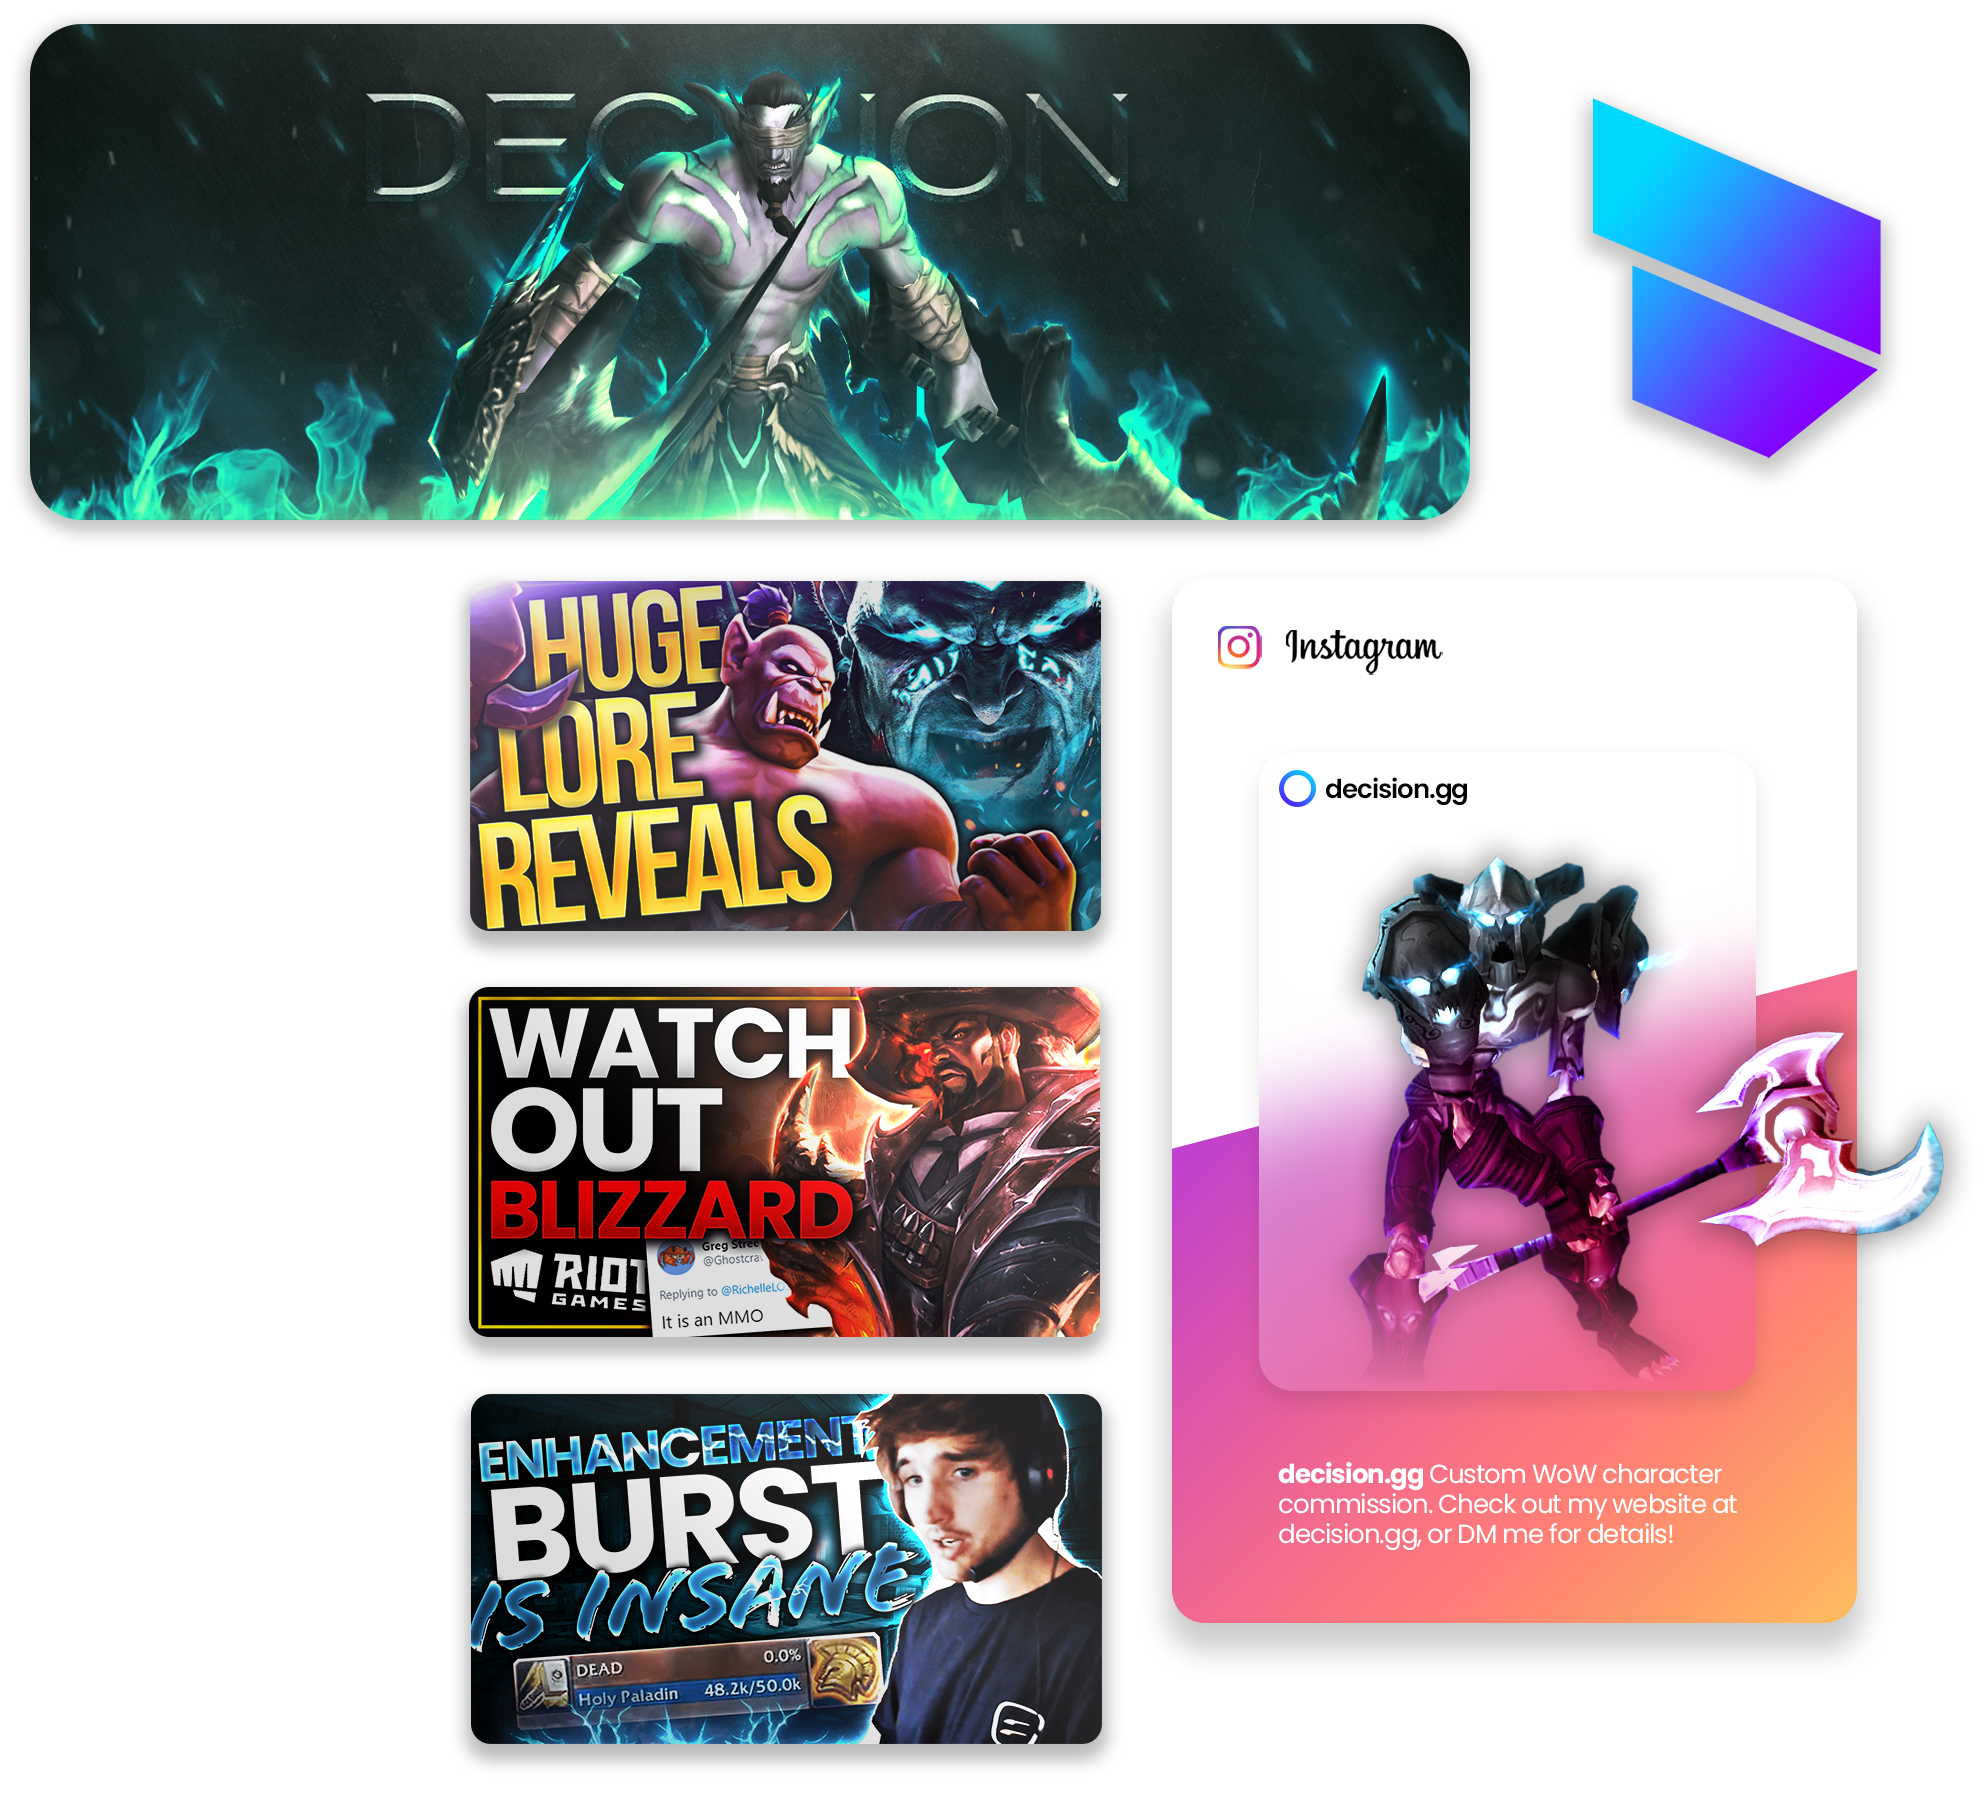
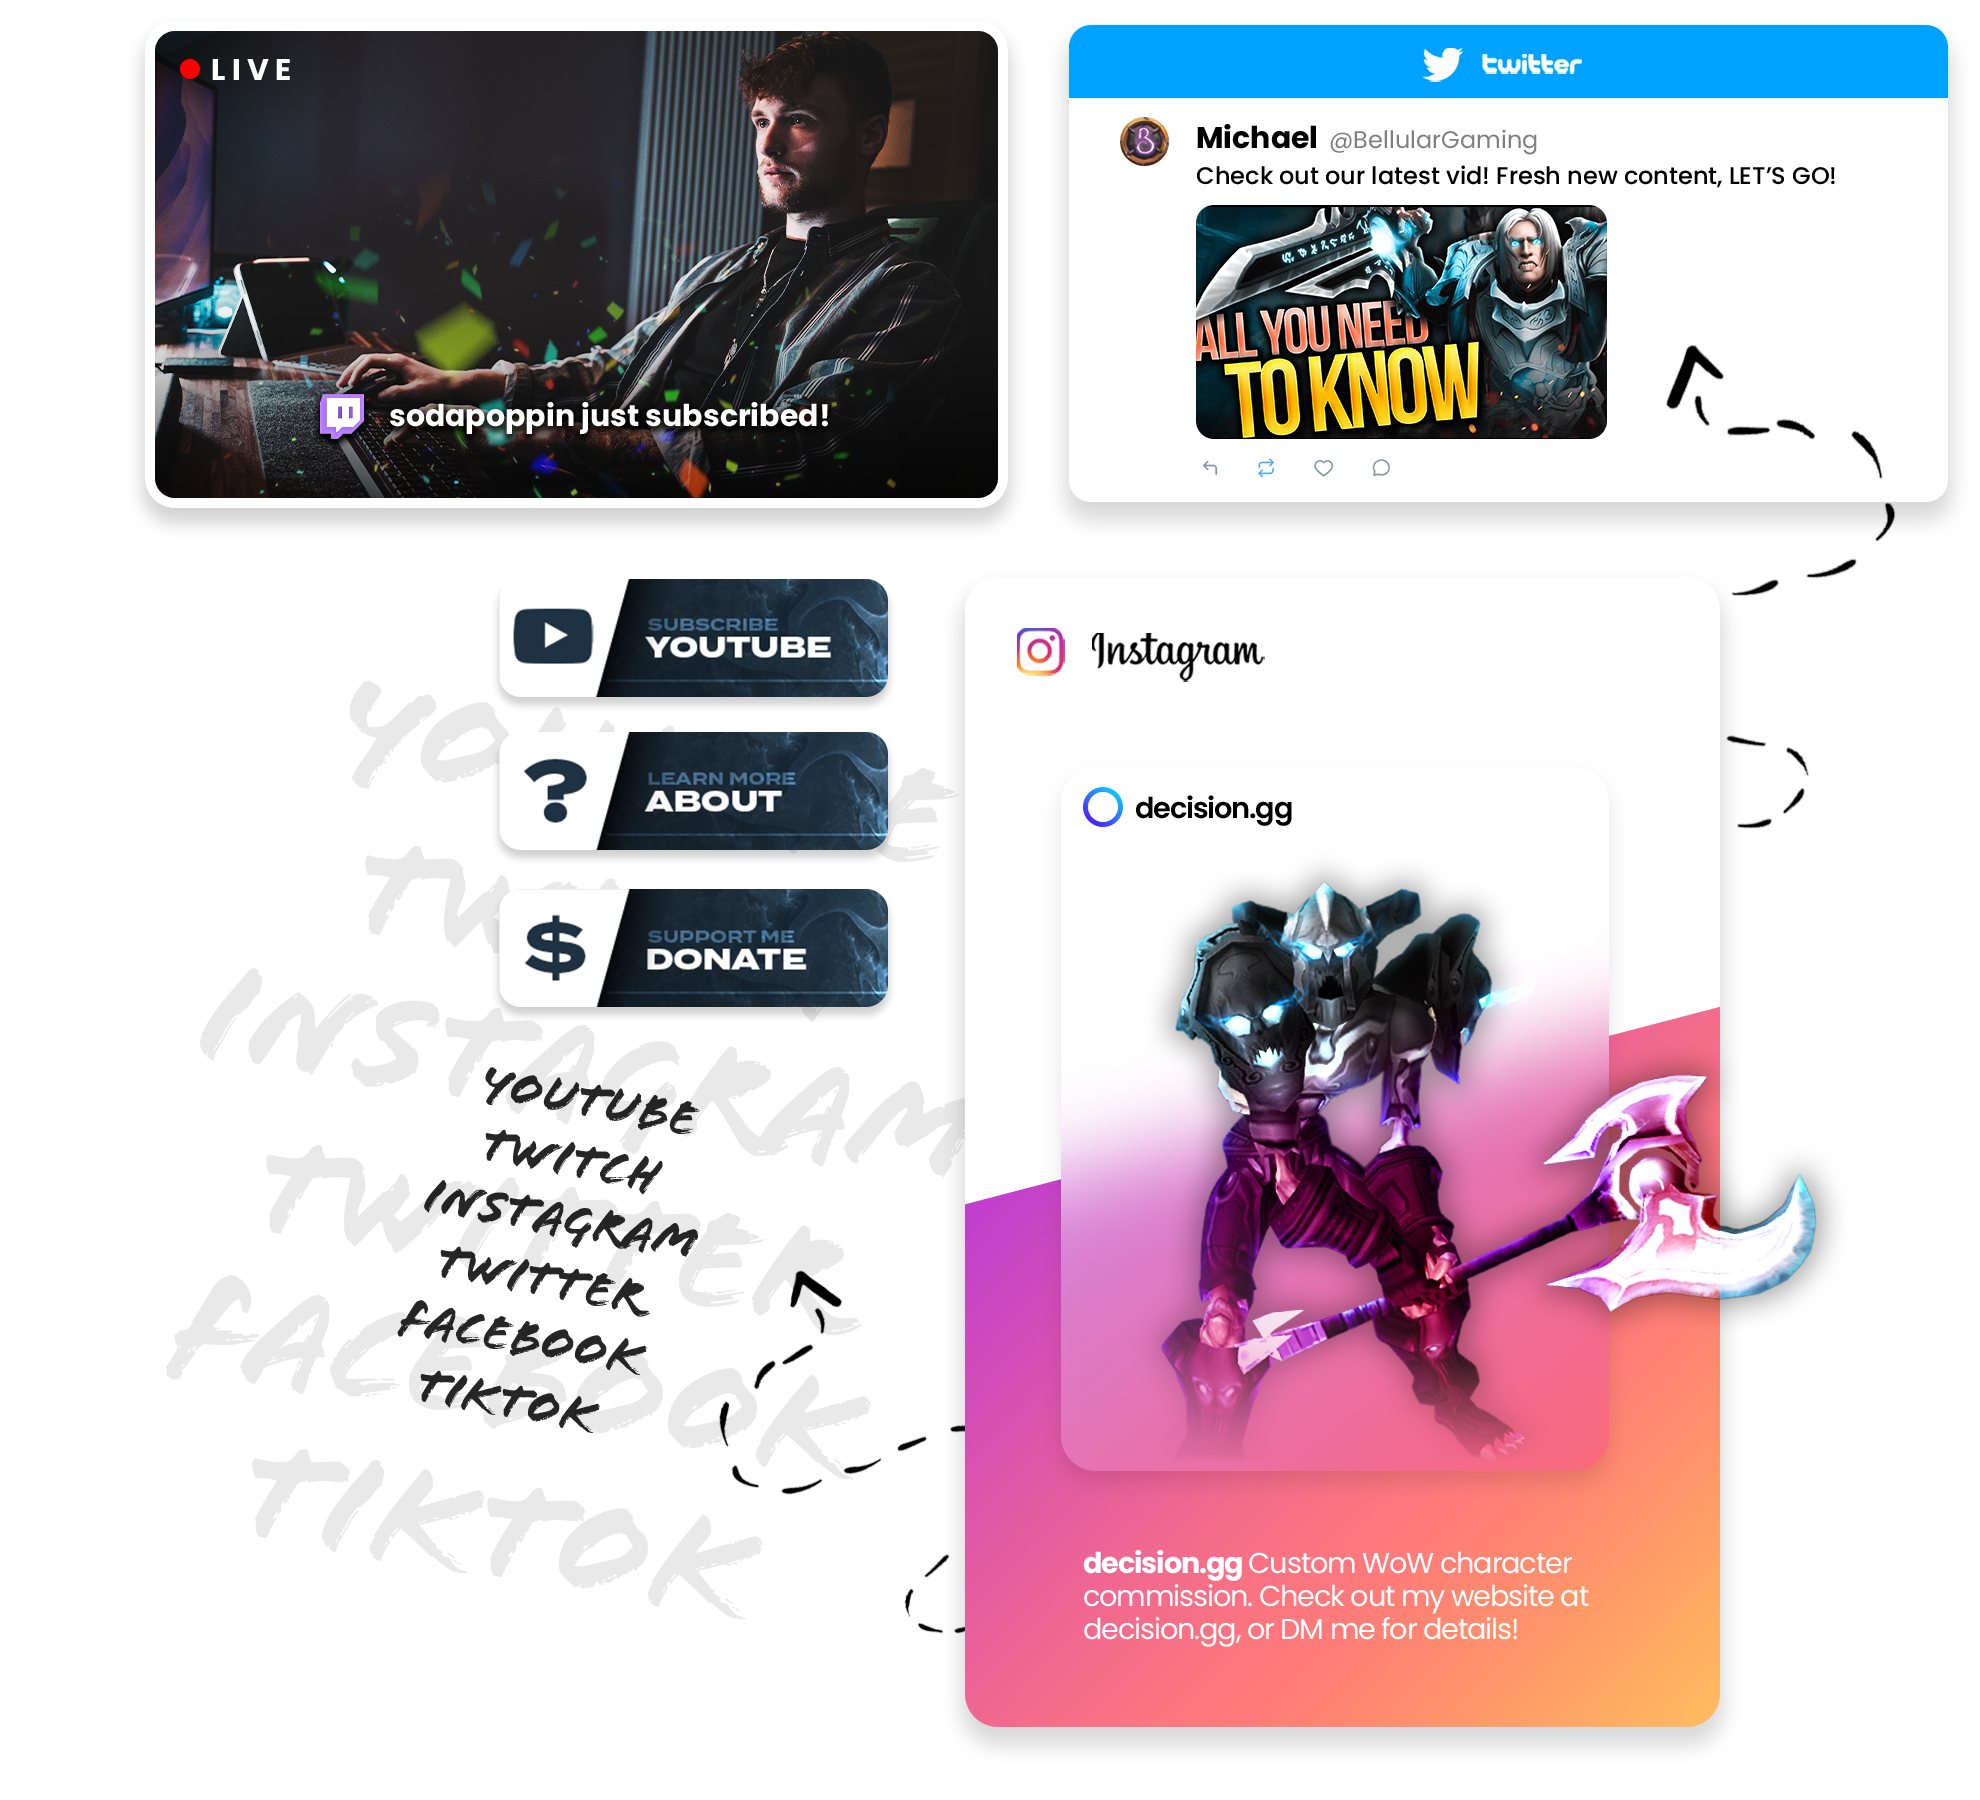
Footer + section image
Added a footer to take in subscription requests + social links. Updated section image with v2

diff --git a/src/components/pages/Footer/Footer.js b/src/components/pages/Footer/Footer.js
@@ -1,0 +1,82 @@
+import React from 'react';
+import './Footer.css';
+import { Button } from '../../Button';
+import { Link } from 'react-router-dom';
+import {
+    FaFacebook,
+    FaInstagram,
+    FaTwitter,
+} from 'react-icons/fa';
+
+function Footer() {
+    return (
+        <div className='footer-container'>
+
+            <section className='footer-logo'>
+                <div className='logo'>
+                    <Link to='/' className='social-logo-link'>
+                        <img src="../../images/logo-white.png" className='social-logo' alt=""/>
+                    </Link>
+                </div>
+            </section>
+
+            <section className='footer-subscription'>
+                {/* Header */}
+                <p className='footer-subscription-heading'>
+                    Join my email list to recieve ideas, deals and freebies!
+                </p>
+                <p className='footer-subscription-text'>
+                    You can unsubscribe at any time
+                </p>
+
+                {/* Form */}
+                <div className='input-area'>
+                    <form>
+                        <input 
+                        className='footer-input'
+                        name='email'
+                        type='email'
+                        placeholder='email'/>
+                        <Button buttonStyle='style-primary' buttonColor='purple' buttonSize='size-auto' >
+                            Subscribe
+                        </Button>
+                    </form>
+                </div>
+            </section>
+
+            <section className='social-media'>
+                <div className='social-media-wrap'>
+
+                    {/* Socials */}
+                    <div className='social-icons'>
+                        <Link
+                        className='social-icon-link'
+                        to='/'
+                        target='_blank'
+                        aria-label='Facebook'>
+                            <FaFacebook/>
+                        </Link>
+
+                        <Link
+                        className='social-icon-link'
+                        to='/'
+                        target='_blank'
+                        aria-label='Twitter'>
+                            <FaTwitter/>
+                        </Link>
+
+                        <Link
+                        className='social-icon-link'
+                        to=''
+                        target=''
+                        aria-label='Instagram'>
+                            <FaInstagram/>
+                        </Link>
+                    </div>
+                </div>
+            </section>
+        </div>
+    )
+}
+
+export default Footer;

diff --git a/src/components/pages/Footer/Footer.css b/src/components/pages/Footer/Footer.css
@@ -1,0 +1,93 @@
+.footer-container {
+    background: rgb(249, 252, 255);
+    display: flex;
+    flex-direction: row;
+    justify-content:space-around;
+    align-items: center;
+}
+
+.footer-subscription {
+    display: flex;
+    flex-direction: column;
+    justify-content:center;
+    align-items:center;
+    text-align:center;
+    padding:24px;
+    color:#000;
+    margin-left:50px;
+}
+
+.footer-subscription-heading {
+    margin-bottom: 8px;
+    font-size:18;
+}
+
+.footer-subscription-text {
+    color: rgba(0, 0, 0, 0.7);
+    margin-bottom:24px;
+    font-size:12px;
+}
+
+.footer-input {
+    padding: 7px 22px;
+    width: 300px;
+    border-radius: 25px;
+    margin-right: 10px;
+    outline:none;
+    border:1px solid #635bff;
+}
+
+.social-icon-link {
+    color: #b8b8b8;
+    font-size:18px;
+    transition: 0.2s ease;
+}
+.social-icon-link:hover {
+    transform: scale(1.1);
+    color: #635bff;
+}
+
+.social-media {
+    max-width: 100px;
+    width: 100%;
+}
+
+.social-media-wrap {
+    display: flex;
+    justify-content: space-between;
+    align-items: center;
+    width:90%;
+    max-width:1000px;
+    margin:10px auto 0 auto;
+}
+
+.social-icons {
+    display:flex;
+    justify-content: space-between;
+    align-items:center;
+    width:100px;
+}
+
+.social-logo {
+    background: #635bff;
+    height: 50px;
+}
+
+@media screen and (max-width:992px) {
+    .footer-container {
+        padding: 20px 0;
+        flex-direction: column;
+    }
+    .footer-subscription {
+        margin-left:0px;
+    }
+    .social-logo {
+        margin-top:20px;
+    }
+}
+
+@media screen and (max-width: 360px) {
+    .footer-input {
+        width: 100%;
+    }
+}

diff --git a/src/components/Navbar.js b/src/components/Navbar.js
@@ -45,19 +45,19 @@ function Navbar() {
 
                             <ul className={click ? 'nav-menu active' : 'nav-menu'}>
                                 <li className='nav-item'>
-                                    <Link to='/' className='nav-links' onClick={closeMobileMenu}>
+                                    <Link to='/about' className='nav-links' onClick={closeMobileMenu}>
                                         About
                                     </Link>
                                 </li>
 
                                 <li className='nav-item'>
-                                    <Link to='/products' className='nav-links' onClick={closeMobileMenu}>
+                                    <Link to='/services' className='nav-links' onClick={closeMobileMenu}>
                                         Services
                                     </Link>
                                 </li>
 
                                 <li className='nav-item'>
-                                    <Link to='/products' className='nav-links' onClick={closeMobileMenu}>
+                                    <Link to='/portolio' className='nav-links' onClick={closeMobileMenu}>
                                         Portfolio
                                     </Link>
                                 </li>

diff --git a/src/components/Section.css b/src/components/Section.css
@@ -73,6 +73,16 @@
     }
 }
 
+@media screen and (max-width:1199px) {
+    .section-img-wrapper {
+        float:none;
+        right: 325px;
+    }
+    .section-img {
+        max-width: 800px;
+        margin-right:0px;
+    }
+}
 
 @media screen and (max-width:991px) {
     .section-col {
@@ -99,10 +109,10 @@
 @media screen and (max-width:600px) {
     .section-img-wrapper {
         float:none;
-        right: 250px;
+        right: 260px;
     }
     .section-img {
-        max-width: 800px;
+        max-width: 700px;
         margin-right:0px;
     }
 }

diff --git a/src/App.js b/src/App.js
@@ -3,6 +3,7 @@ import {BrowserRouter as Router, Switch, Route} from 'react-router-dom';
 import './App.css';
 import Navbar from './components/Navbar';
 import Home from './components/pages/Home/Home';
+import Footer from './components/pages/Footer/Footer';
 
 function App() {
   return (
@@ -11,6 +12,7 @@ function App() {
       <Switch>
         <Route path='/' exact component={Home}/>
       </Switch>
+      <Footer/>
     </Router>
   );
 }
